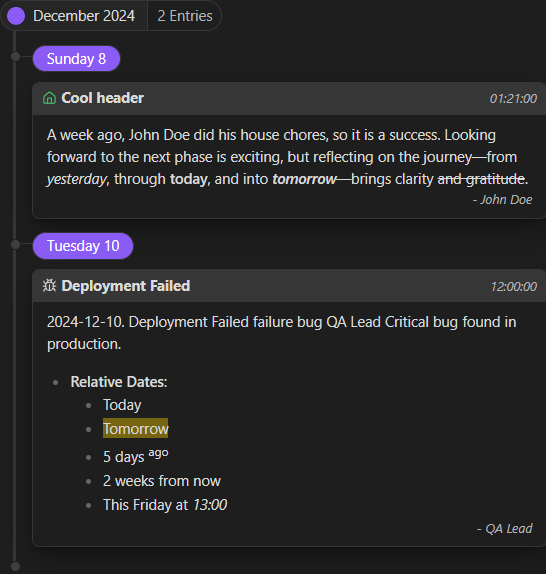
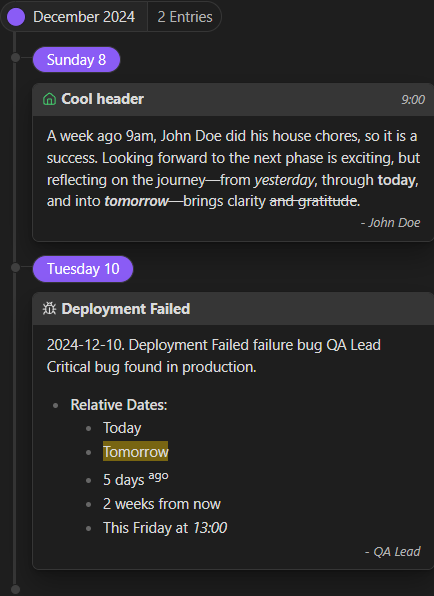
docs: 📝 Update example to reflect 2.1.0 changes

diff --git a/README.md b/README.md
@@ -104,7 +104,7 @@ Customize sections using inline metadata for each sections such as author, icon,
 
 ```md
 ## Cool header
-A week ago, [author:: John Doe] did his [icon:: house] chores, so it is a [status:: success]. Looking forward to the next phase is exciting, but reflecting on the journey—from *yesterday*, through **today**, and into ___tomorrow___—brings clarity ~~and gratitude~~.
+A week ago 9am, [author:: John Doe] did his [icon:: house] chores, so it is a [status:: success]. Looking forward to the next phase is exciting, but reflecting on the journey—from *yesterday*, through **today**, and into ___tomorrow___—brings clarity ~~and gratitude~~.
 
 2024-12-10. [title:: Deployment Failed] [status:: failure] [icon:: bug] [author:: QA Lead] Critical bug found in production.
 - **Relative Dates**: 
